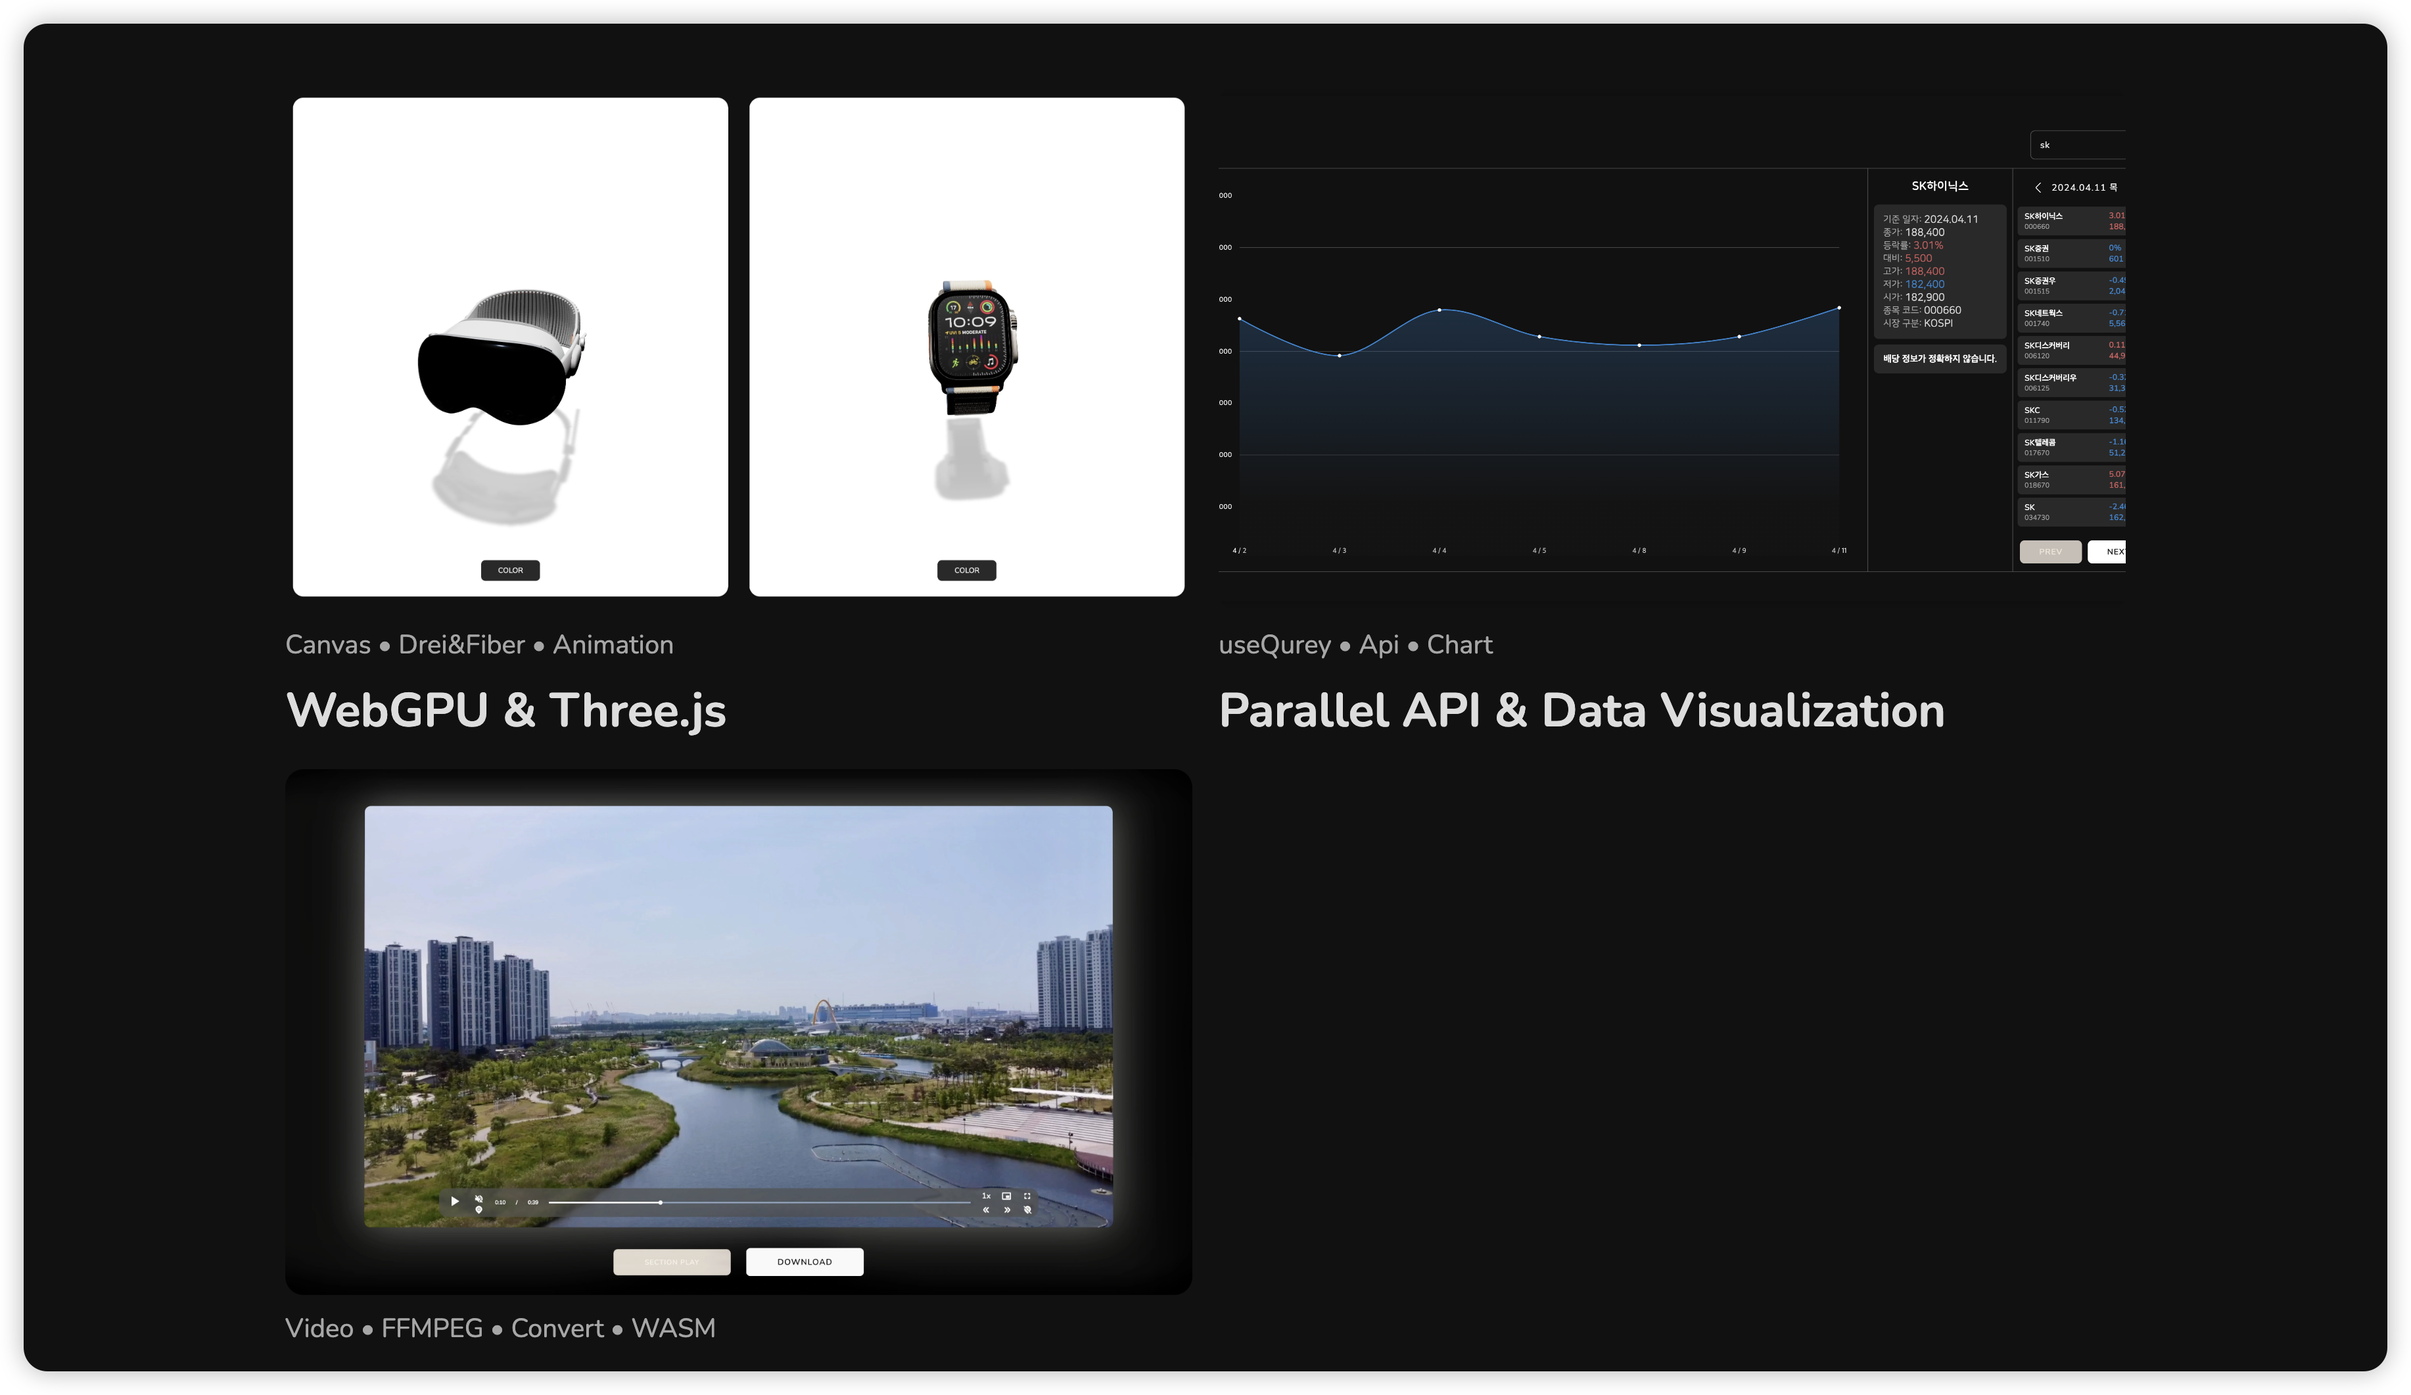
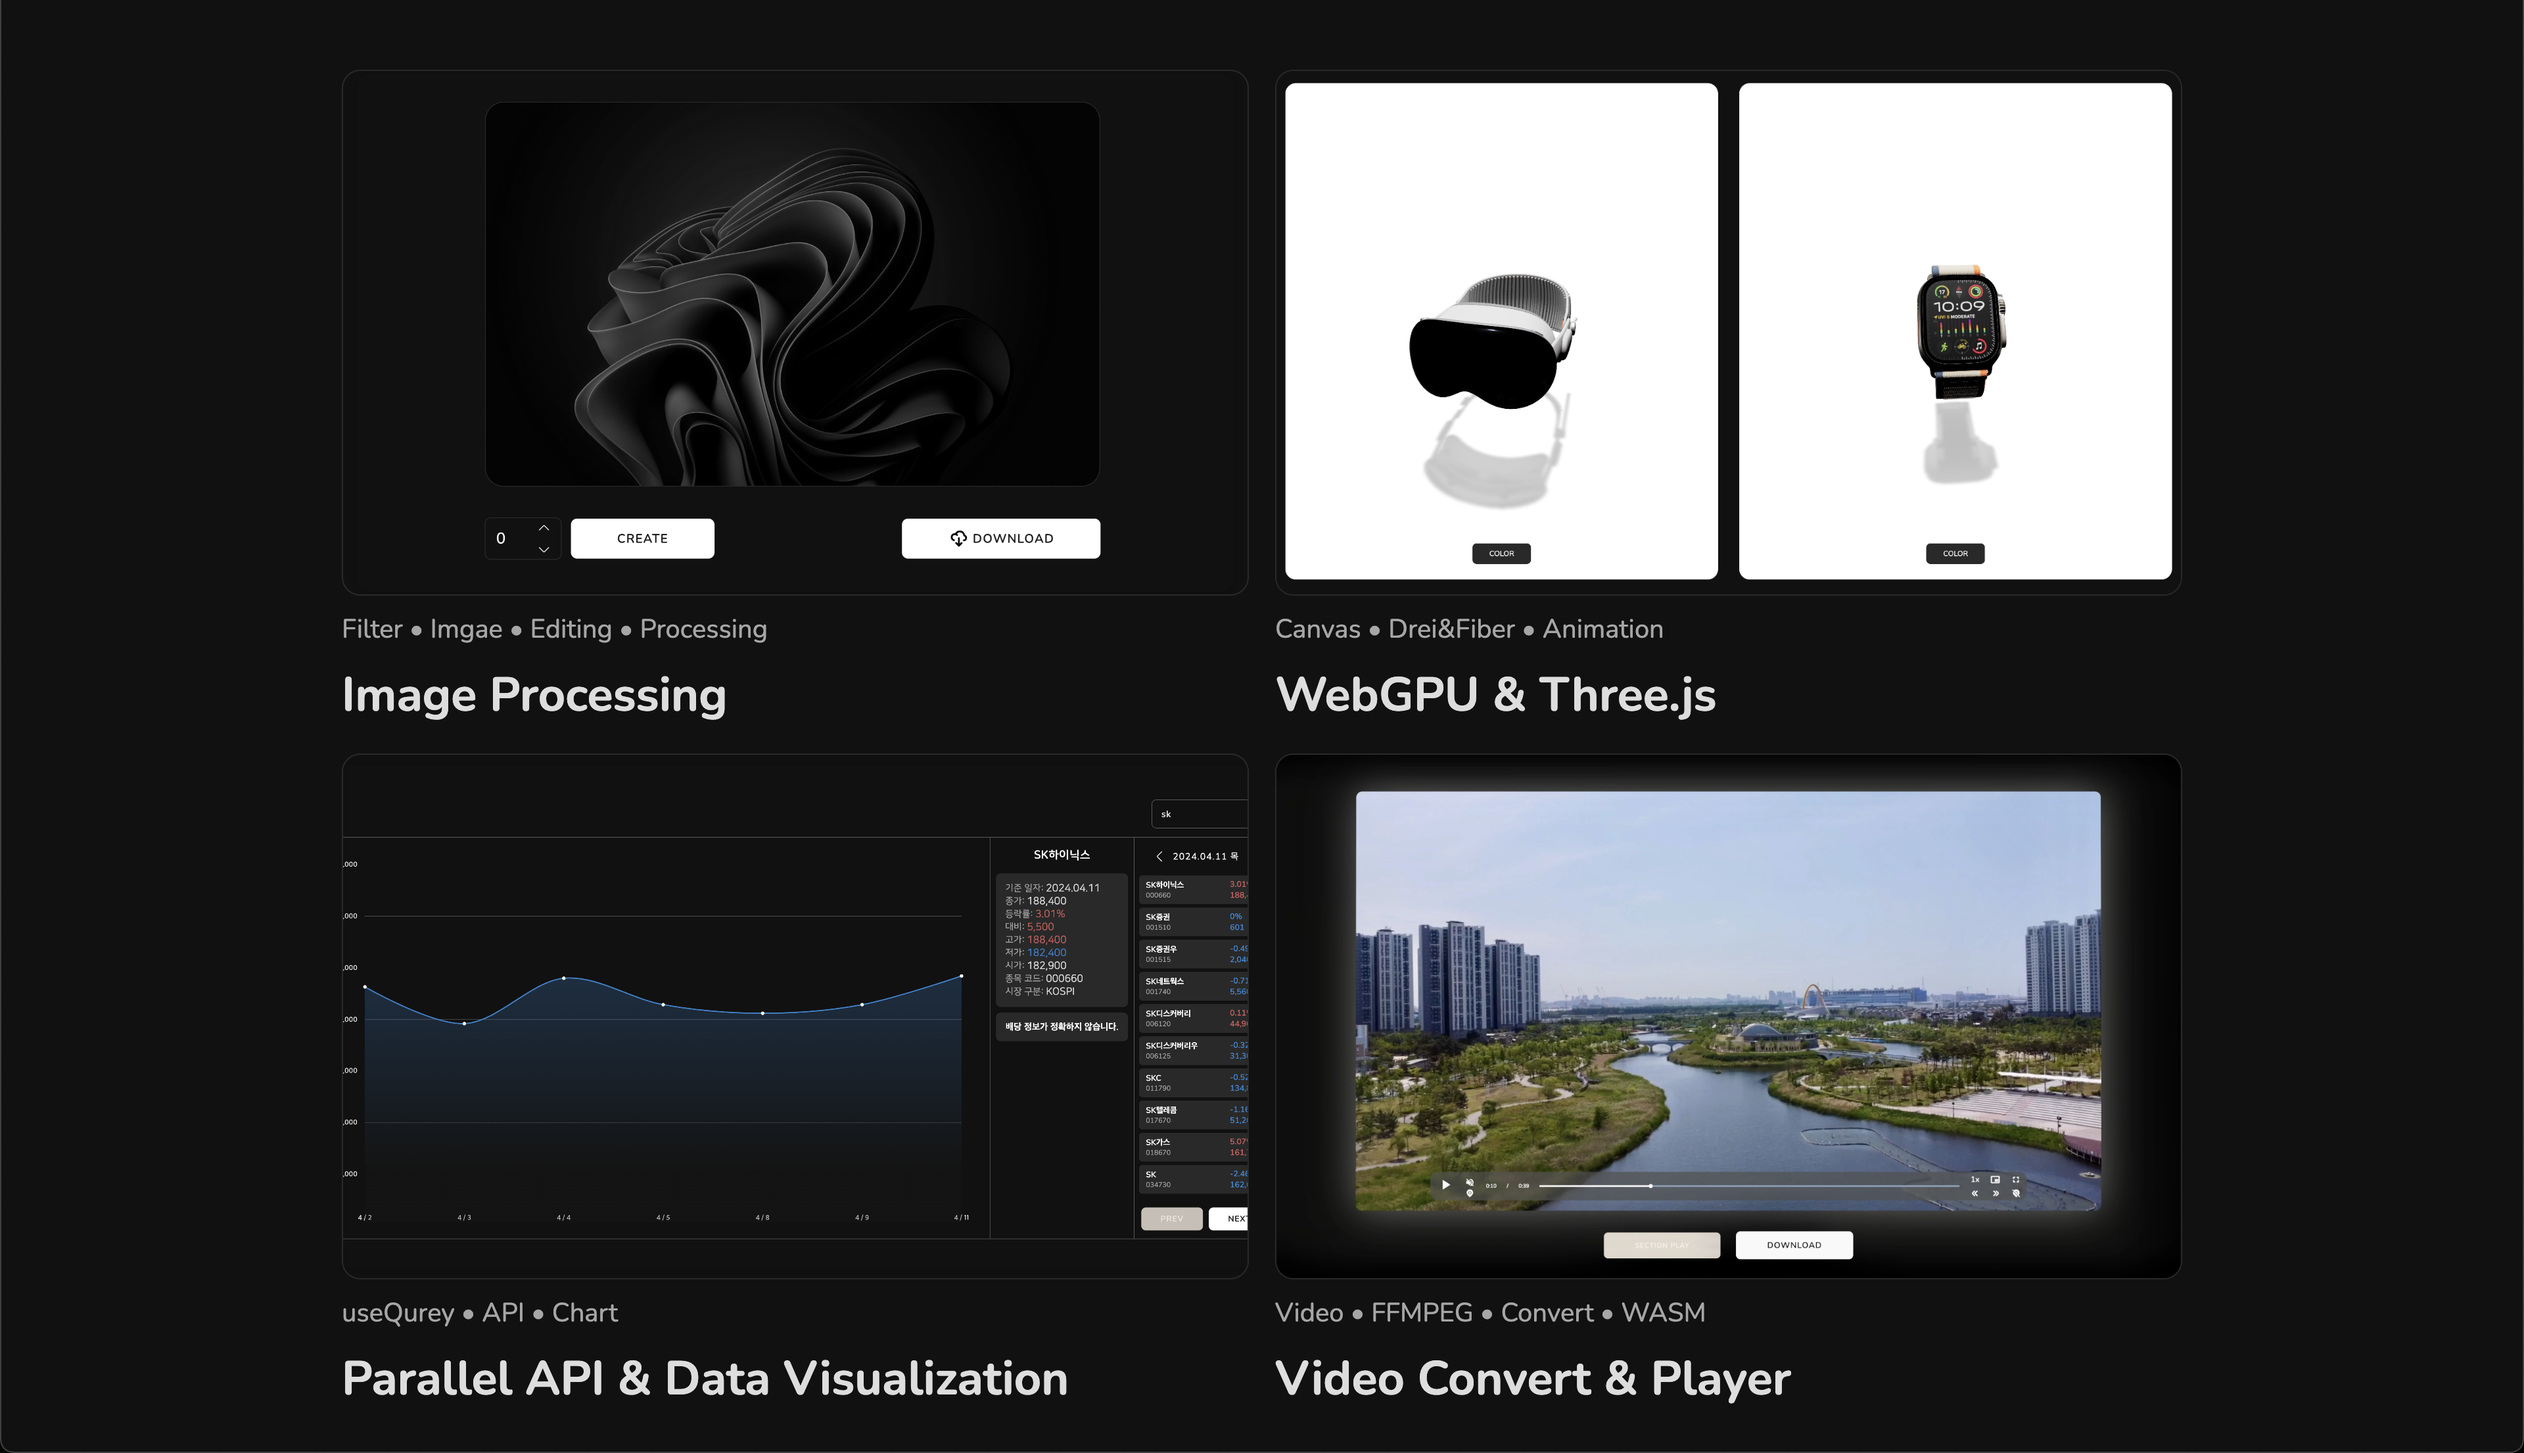
[Feat]add threshold span tag

diff --git a/src/components/organism/image/dashboard/Dashboard.tsx b/src/components/organism/image/dashboard/Dashboard.tsx
@@ -1,5 +1,10 @@
 import { forwardRef } from "react";
-import { DashboardLayout, Row, WrapperButton } from "./DashboardStyles";
+import {
+  DashboardLayout,
+  Row,
+  Threshold,
+  WrapperButton,
+} from "./DashboardStyles";
 import ChildButton from "@/components/molecule/childButton/ChildButton";
 import InputNumber from "@/components/molecule/inputNumber/InputNumber";
 import * as Svg from "@/components/atoms/icon/index";
@@ -15,7 +20,17 @@ const Dashboard = forwardRef<HTMLInputElement, DashboardProps>(
   ({ createSrc, onChangeConf, onCreate, onKeyDown }, ref) => {
     return (
       <DashboardLayout>
+        <a href={createSrc} download="create_image" id="download">
+          <WrapperButton type="button">
+            <ChildButton
+              content={""}
+              icon={<Svg.Download />}
+              isDisabled={false}
+            />
+          </WrapperButton>
+        </a>
         <Row>
+          <Threshold>Threshold</Threshold>
           <InputNumber
             ref={ref}
             onChangeConf={onChangeConf}
@@ -25,15 +40,6 @@ const Dashboard = forwardRef<HTMLInputElement, DashboardProps>(
             <ChildButton content={"create"} isDisabled={false} />
           </WrapperButton>
         </Row>
-        <a href={createSrc} download="create_image" id="download">
-          <WrapperButton type="button">
-            <ChildButton
-              content={"download"}
-              icon={<Svg.Download />}
-              isDisabled={false}
-            />
-          </WrapperButton>
-        </a>
       </DashboardLayout>
     );
   }

diff --git a/src/components/organism/image/dashboard/DashboardStyles.ts b/src/components/organism/image/dashboard/DashboardStyles.ts
@@ -35,3 +35,11 @@ export const WrapperButton = styled.button`
   padding: 0;
   background-color: transparent;
 `;
+
+export const Threshold = styled.span`
+  font-size: ${({ theme }) => theme.fontSize.small};
+
+  @media screen and (max-width: ${theme.deviceSize.tablet}) {
+    font-size: ${({ theme }) => theme.fontSize.mini};
+  }
+`;

diff --git a/src/components/molecule/hasReady/readyGroup/ReadyGroup.tsx b/src/components/molecule/hasReady/readyGroup/ReadyGroup.tsx
@@ -6,7 +6,7 @@ const ReadyGroup = () => {
   return (
     <HasReady>
       <Svg.Lock />
-      <ReadyInfo>6월달에 오픈 예정입니다.</ReadyInfo>
+      <ReadyInfo>7월에 오픈 예정입니다.</ReadyInfo>
     </HasReady>
   );
 };

diff --git a/README.md b/README.md
@@ -5,11 +5,11 @@
 ### update
 
 ```
-2024.04.20
+2024.07.1
 최근 업데이트 내용
-- gcTime 0으로 설정하여 차트 데이터 불러올때 이전 캐시 데이터로 렌더링 되어 비정상적인 차트를 그리는 현상 수정
-- git remote에 .env 파일 삭제
-- 배당 API 데이터가 부정확하여 임시적으로 미호출
+- image processing 프로젝트 추가
+- three.js 프로젝트 첫 3D model 로드된 후 나머지 2개 model 로드되도록 수정하여 렌더링 속도 3배 개선
+- three.js model draco 압축 방식 이용하여 용량 최적화 gltf -> glb
 ```
 
 Deployment: https://stems-iota.vercel.app/
@@ -73,20 +73,44 @@ three.js를 활용하여 호버 및 터치(클릭)시 설정해놓은 패턴을 
 
 ---
 
+### Image_Processing
+
+```
+instagram color filter 기능으로 흑백 및 색 보정한 image 파일을 webp 확장자로 다운할 수 있게 구현한 프로젝트
+```
+
+#### 세부 기능
+
+- image 파일을 drag를 통한 업로드 방식 구현
+- threshold 값으로 image의 색을 변경 / default: 0
+- create 버튼 클릭시 현재의 threshold 값으로 image 색보정
+- threshold 입력시 Enter 버튼으로 create 기능, metaKey or ctrlKey + Enter로 image 다운로드 기능 구현
+
+#### 트러블 슈팅
+
+- 색보정 로직이 CPU를 독점 사용하여 create 버튼 클릭시 클릭이 되었는지에 대한 인터렉션이 없었던 문제를
+  로직을 비동기로 변경, 부드러운 애니메이션 동작을 위해 setTimeout 300ms를 주어 해결
+
 ### Project_three.js
 
 ```
 3D 모델을 로드하여 모델이 가지고 있는 애니메이션을 선택하여 동작하는 모습을 볼 수 있게 구현한 프로젝트
 ```
 
-세부 기능
+#### 세부 기능
 
+- draco 압축 방식을 사용하여 크기 최적화
+- 첫 model 로드 후 나머지 model 로드하여 렌더링 속도 개선
 - color 클릭 시 배경색 변경
 - useFrame으로 회전하는 애니메이션 구현
 - 그림자 효과 구현
 - [떠다니는](https://github.com/kisn3089/portpolio/blob/main/src/components/organism/main/mainLayout/MainLayout.tsx#L41C14-L41C19) 효과 구현
 - [자체적으로 빛나는](https://github.com/kisn3089/portpolio/blob/main/src/components/organism/main/mainLayout/MainLayout.tsx#L53) 효과 구현
 - 스크롤 확대 최소, 최대값 제한
+
+#### 트러블 슈팅
+
+- model 3개를 한번에 로드하여 GPU부하로 인해 로드가 지연되는 현상을 먼저 1개의 model을 로드시킨 후 나머지 작은 용량의 model을 로드하여 해결
 
 <img src=public/assets/img/readmeInfo/pj_three_sphere.png width=700px />
 <img src=public/assets/img/readmeInfo/pj_three_apple.png width=700px />
@@ -102,7 +126,7 @@ three.js를 활용하여 호버 및 터치(클릭)시 설정해놓은 패턴을 
 공공 API를 활용해 주식을 검색하고 관련 정보 및 최근 1주일 데이터를 받아 차트를 이용한 데이터 시각화 프로젝트
 ```
 
-세부 기능
+#### 세부 기능
 
 - Enter 키로 주식 검색
 - 공공 API에서 제공해주는 가장 최근 날짜를 계산하여 초기 설정
@@ -126,7 +150,7 @@ Video Upload시 확장자가 mp4가 아닐경우 ffmpeg wasm을 이용해 mp4로
 
 <img src=public/assets/img/readmeInfo/player.png width=700px />
 
-세부 기능
+#### 세부 기능
 
 - 음소거 아래 마커 버튼으로 현재 플레이 시간을 마크, 마크가 2개 일시 section play 버튼 활성화되어 구간재생 기능
 - f(풀사이즈), 재생, 정지(space) 등 기본적인 단축키 기능 제공
@@ -139,6 +163,7 @@ Video Upload시 확장자가 mp4가 아닐경우 ffmpeg wasm을 이용해 mp4로
 ## 추후 업데이트 예정
 
 ```
+- 프로젝트별로 최초 1회 설명하는 UI 구현
 - ABOUTME 페이지
   - 게이지바와 원형 게이지를 이용해 나의 강점 부분과 약점 부분을 시각화
 - En 버전 추가
